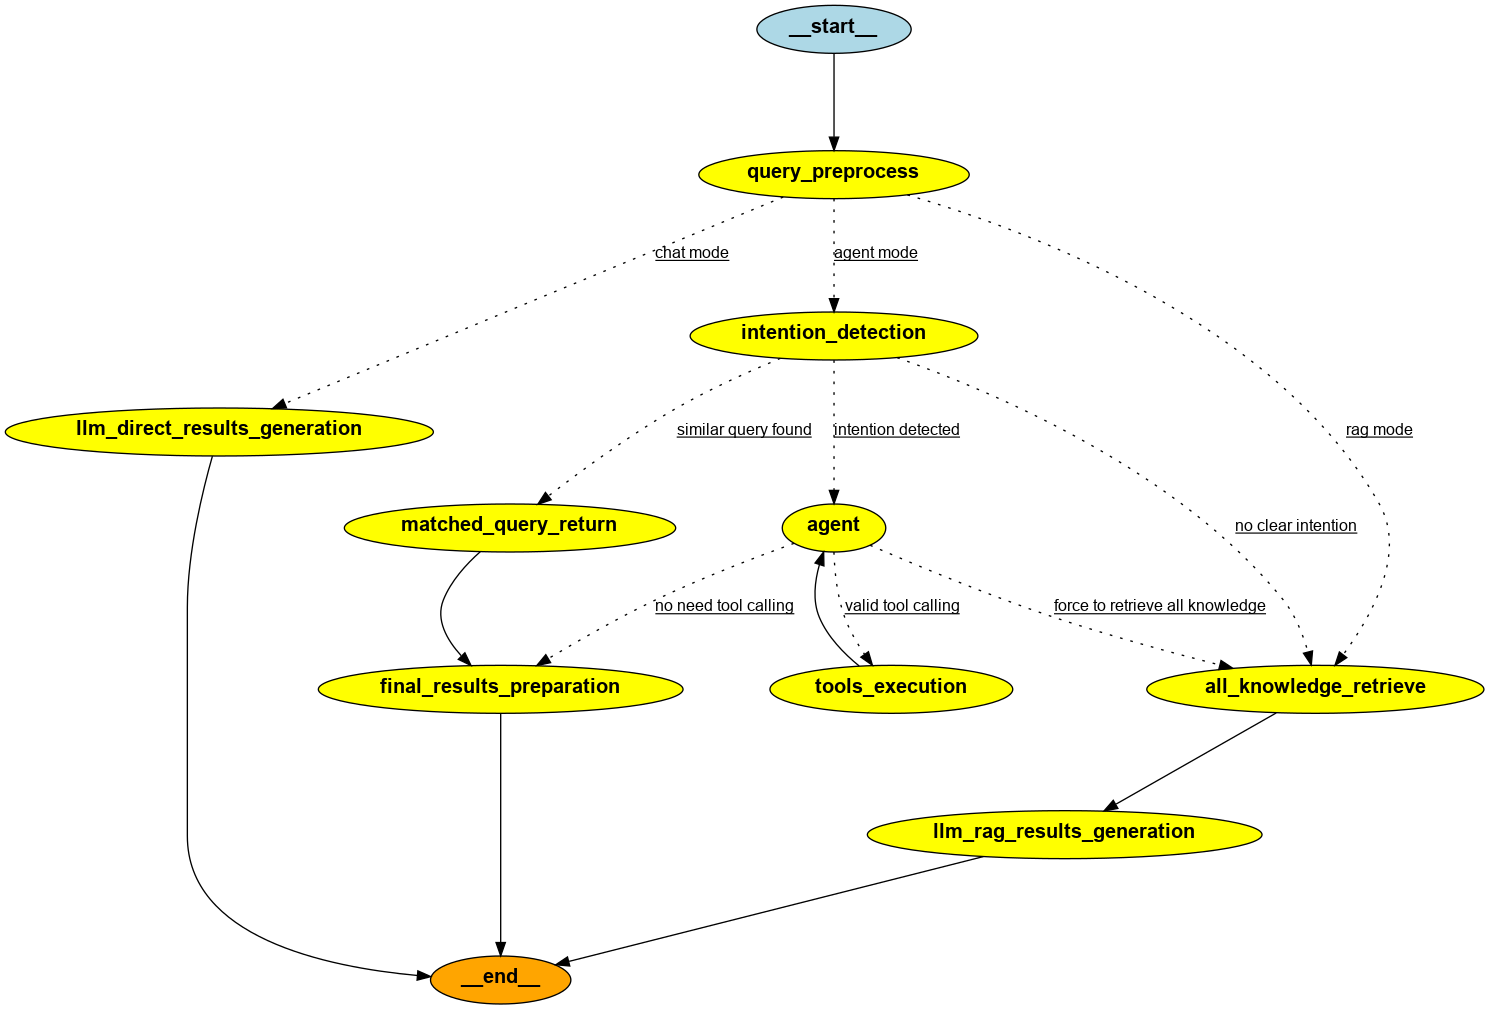
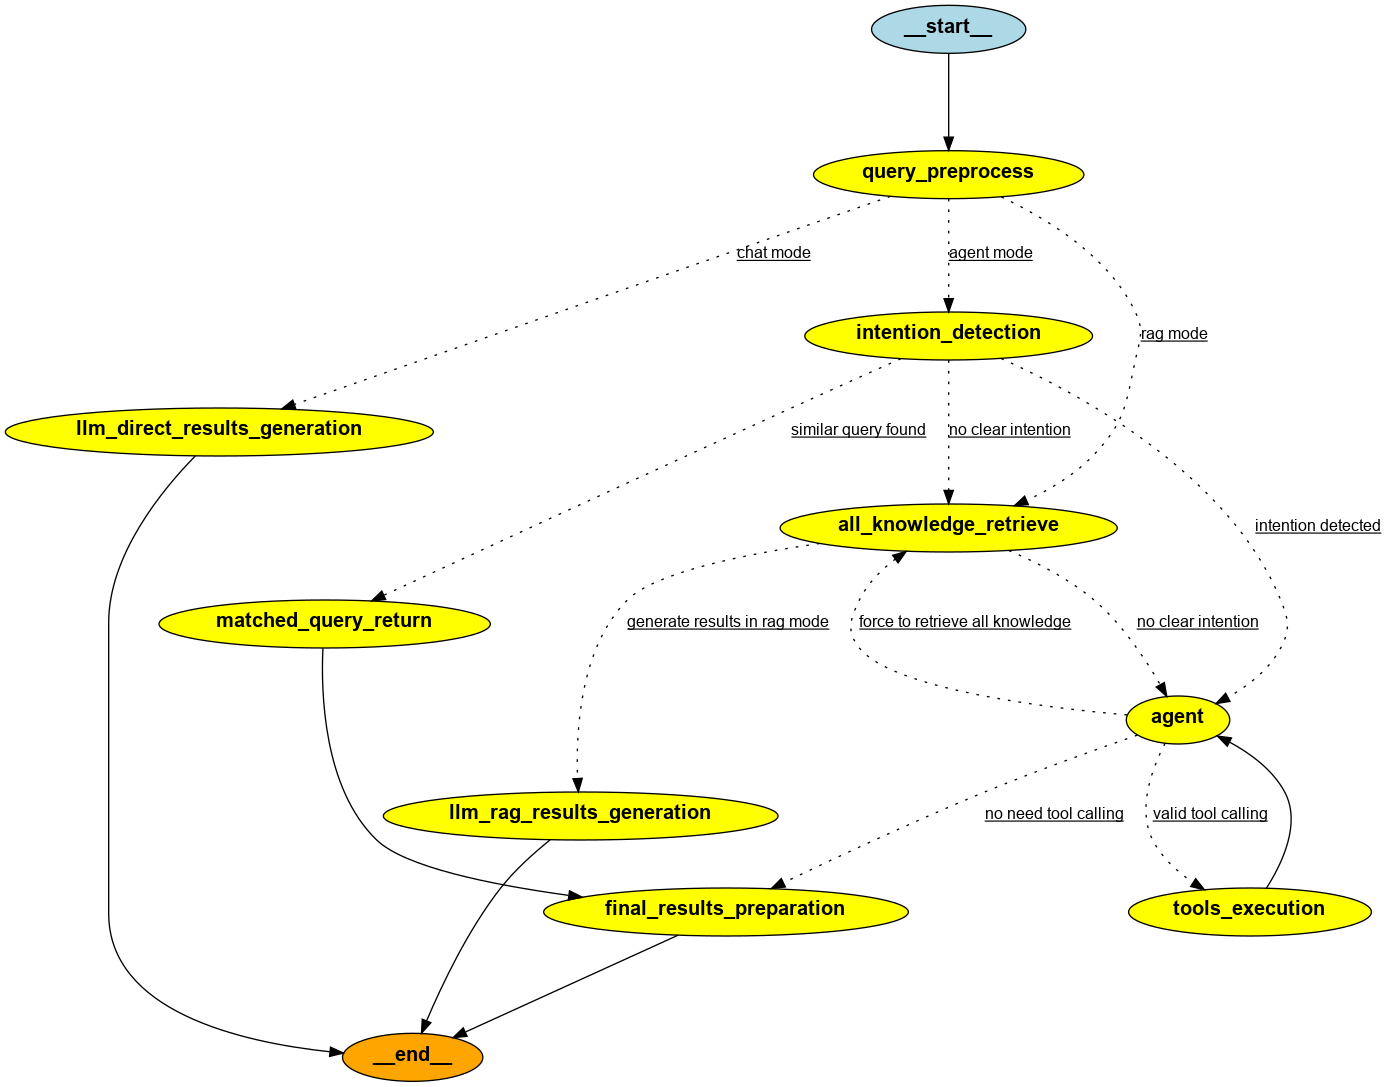
add agent

diff --git a/source/lambda/online/lambda_main/main_utils/online_entries/common_entry.py b/source/lambda/online/lambda_main/main_utils/online_entries/common_entry.py
@@ -585,21 +585,21 @@ def build_graph():
         },
     )
 
-    # # when all knowledge retrieved, there are two possible next steps:
-    # # 1. no clear intention: this happens when no clear intention (no few shots) is detected, we give agent enough context to think and plan.
-    # # 2. generate results in rag mode: let llm generate results based on retrieved knowledge, this happens in the following scenarios:
-    # # 2.1 in rag mode based on user selection at beginning
-    # # 2.2 agent thinks it needs to retrieve all the knowledge to generate the results
-    # # 2.3 the agent believes that it can produce results without executing tools
-    # # 2.4 the tools_choose_and_results_generation node reaches its maximum recusion limit
-    # workflow.add_conditional_edges(
-    #     "all_knowledge_retrieve",
-    #     rag_all_index_lambda_route,
-    #     {
-    #         "no clear intentions": "tools_choose_and_results_generation",
-    #         "generate results in rag mode": "llm_rag_results_generation",
-    #     },
-    # )
+    # when all knowledge retrieved, there are two possible next steps:
+    # 1. no clear intention: this happens when no clear intention (no few shots) is detected, we give agent enough context to think and plan.
+    # 2. generate results in rag mode: let llm generate results based on retrieved knowledge, this happens in the following scenarios:
+    # 2.1 in rag mode based on user selection at beginning
+    # 2.2 agent thinks it needs to retrieve all the knowledge to generate the results
+    # 2.3 the agent believes that it can produce results without executing tools
+    # 2.4 the tools_choose_and_results_generation node reaches its maximum recusion limit
+    workflow.add_conditional_edges(
+        "all_knowledge_retrieve",
+        rag_all_index_lambda_route,
+        {
+            "no clear intention": "agent",
+            "generate results in rag mode": "llm_rag_results_generation",
+        },
+    )
     app = workflow.compile()
     return app
 
